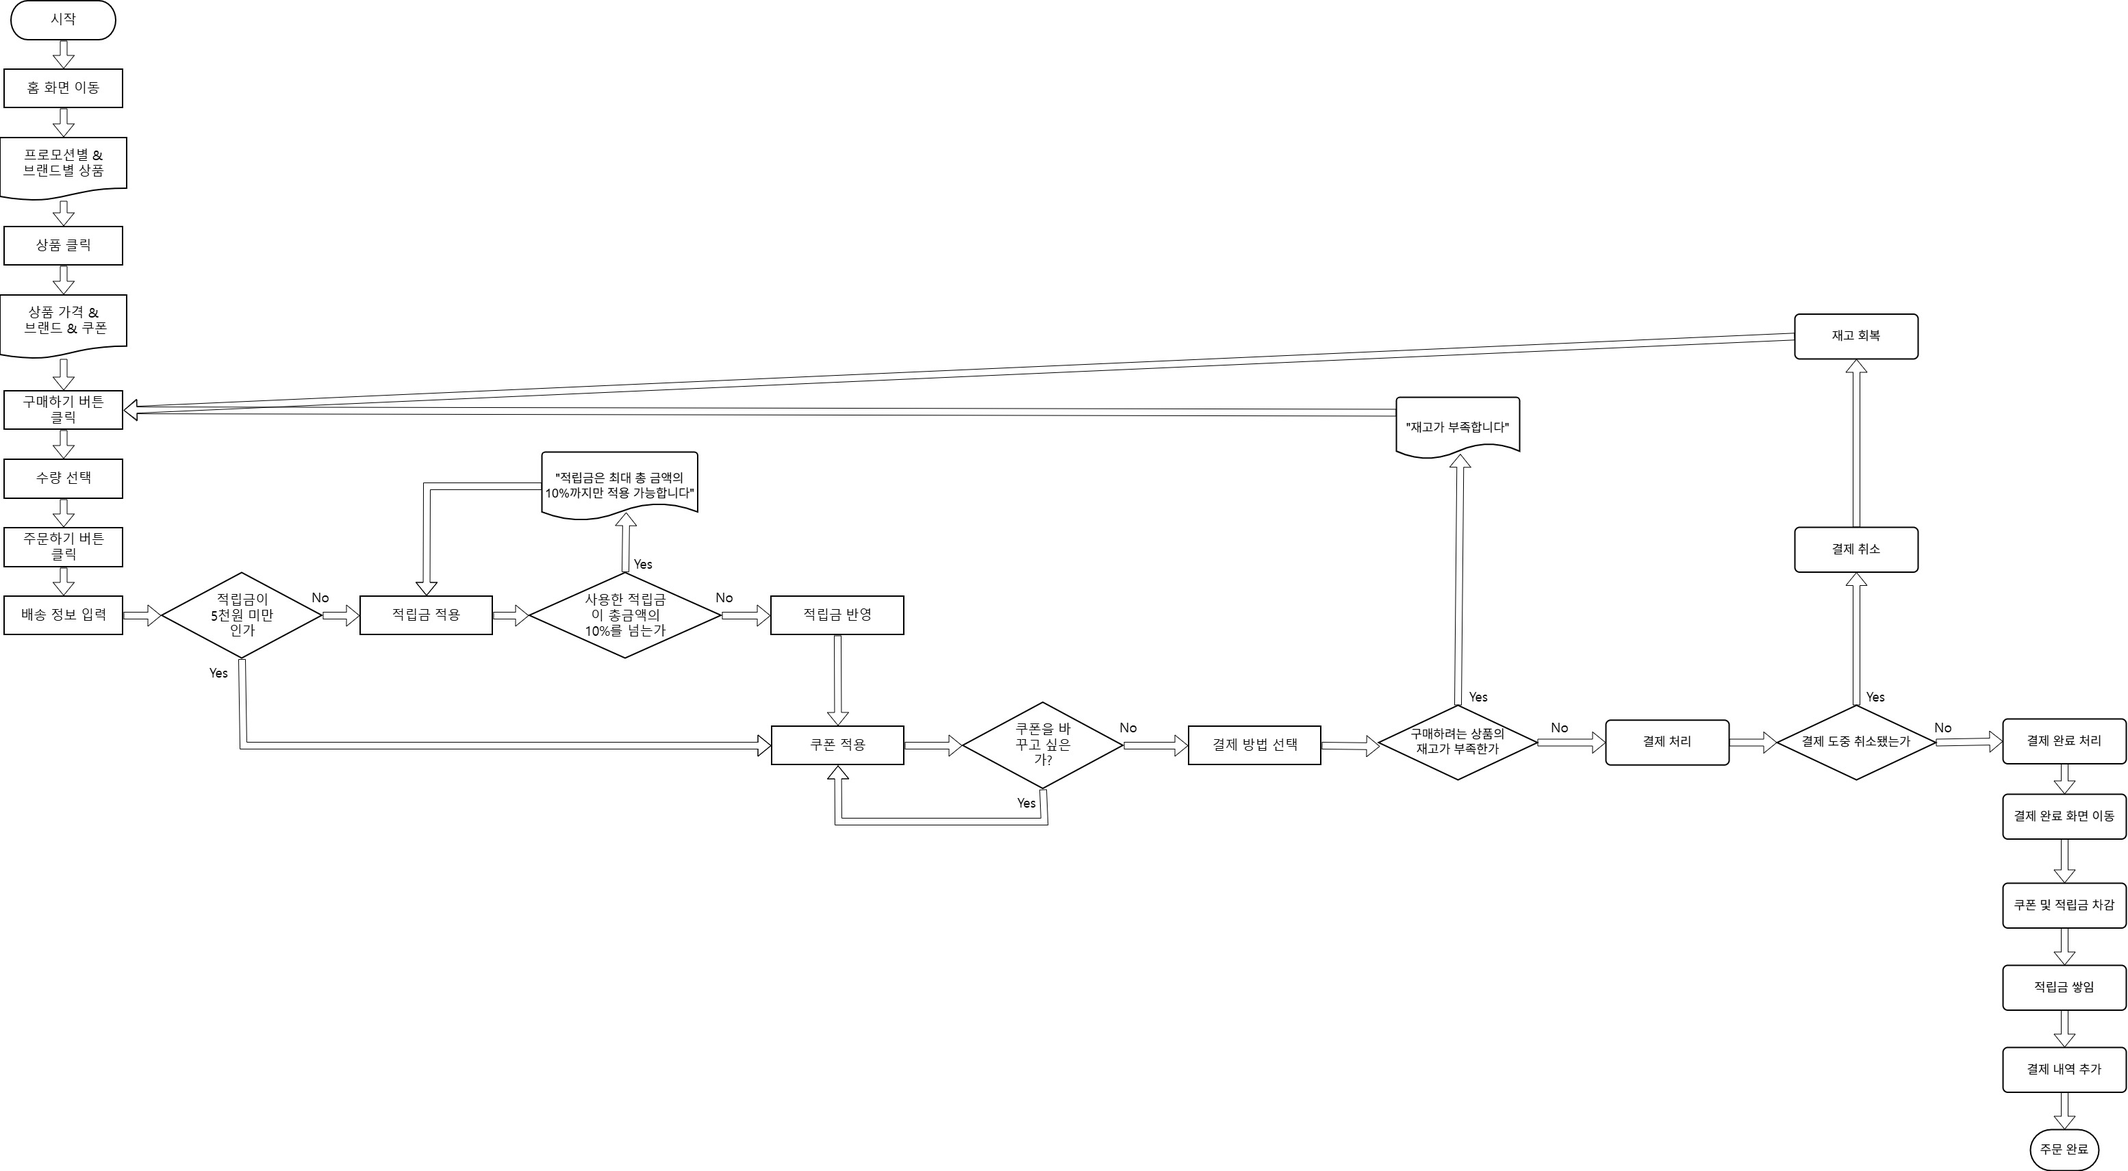
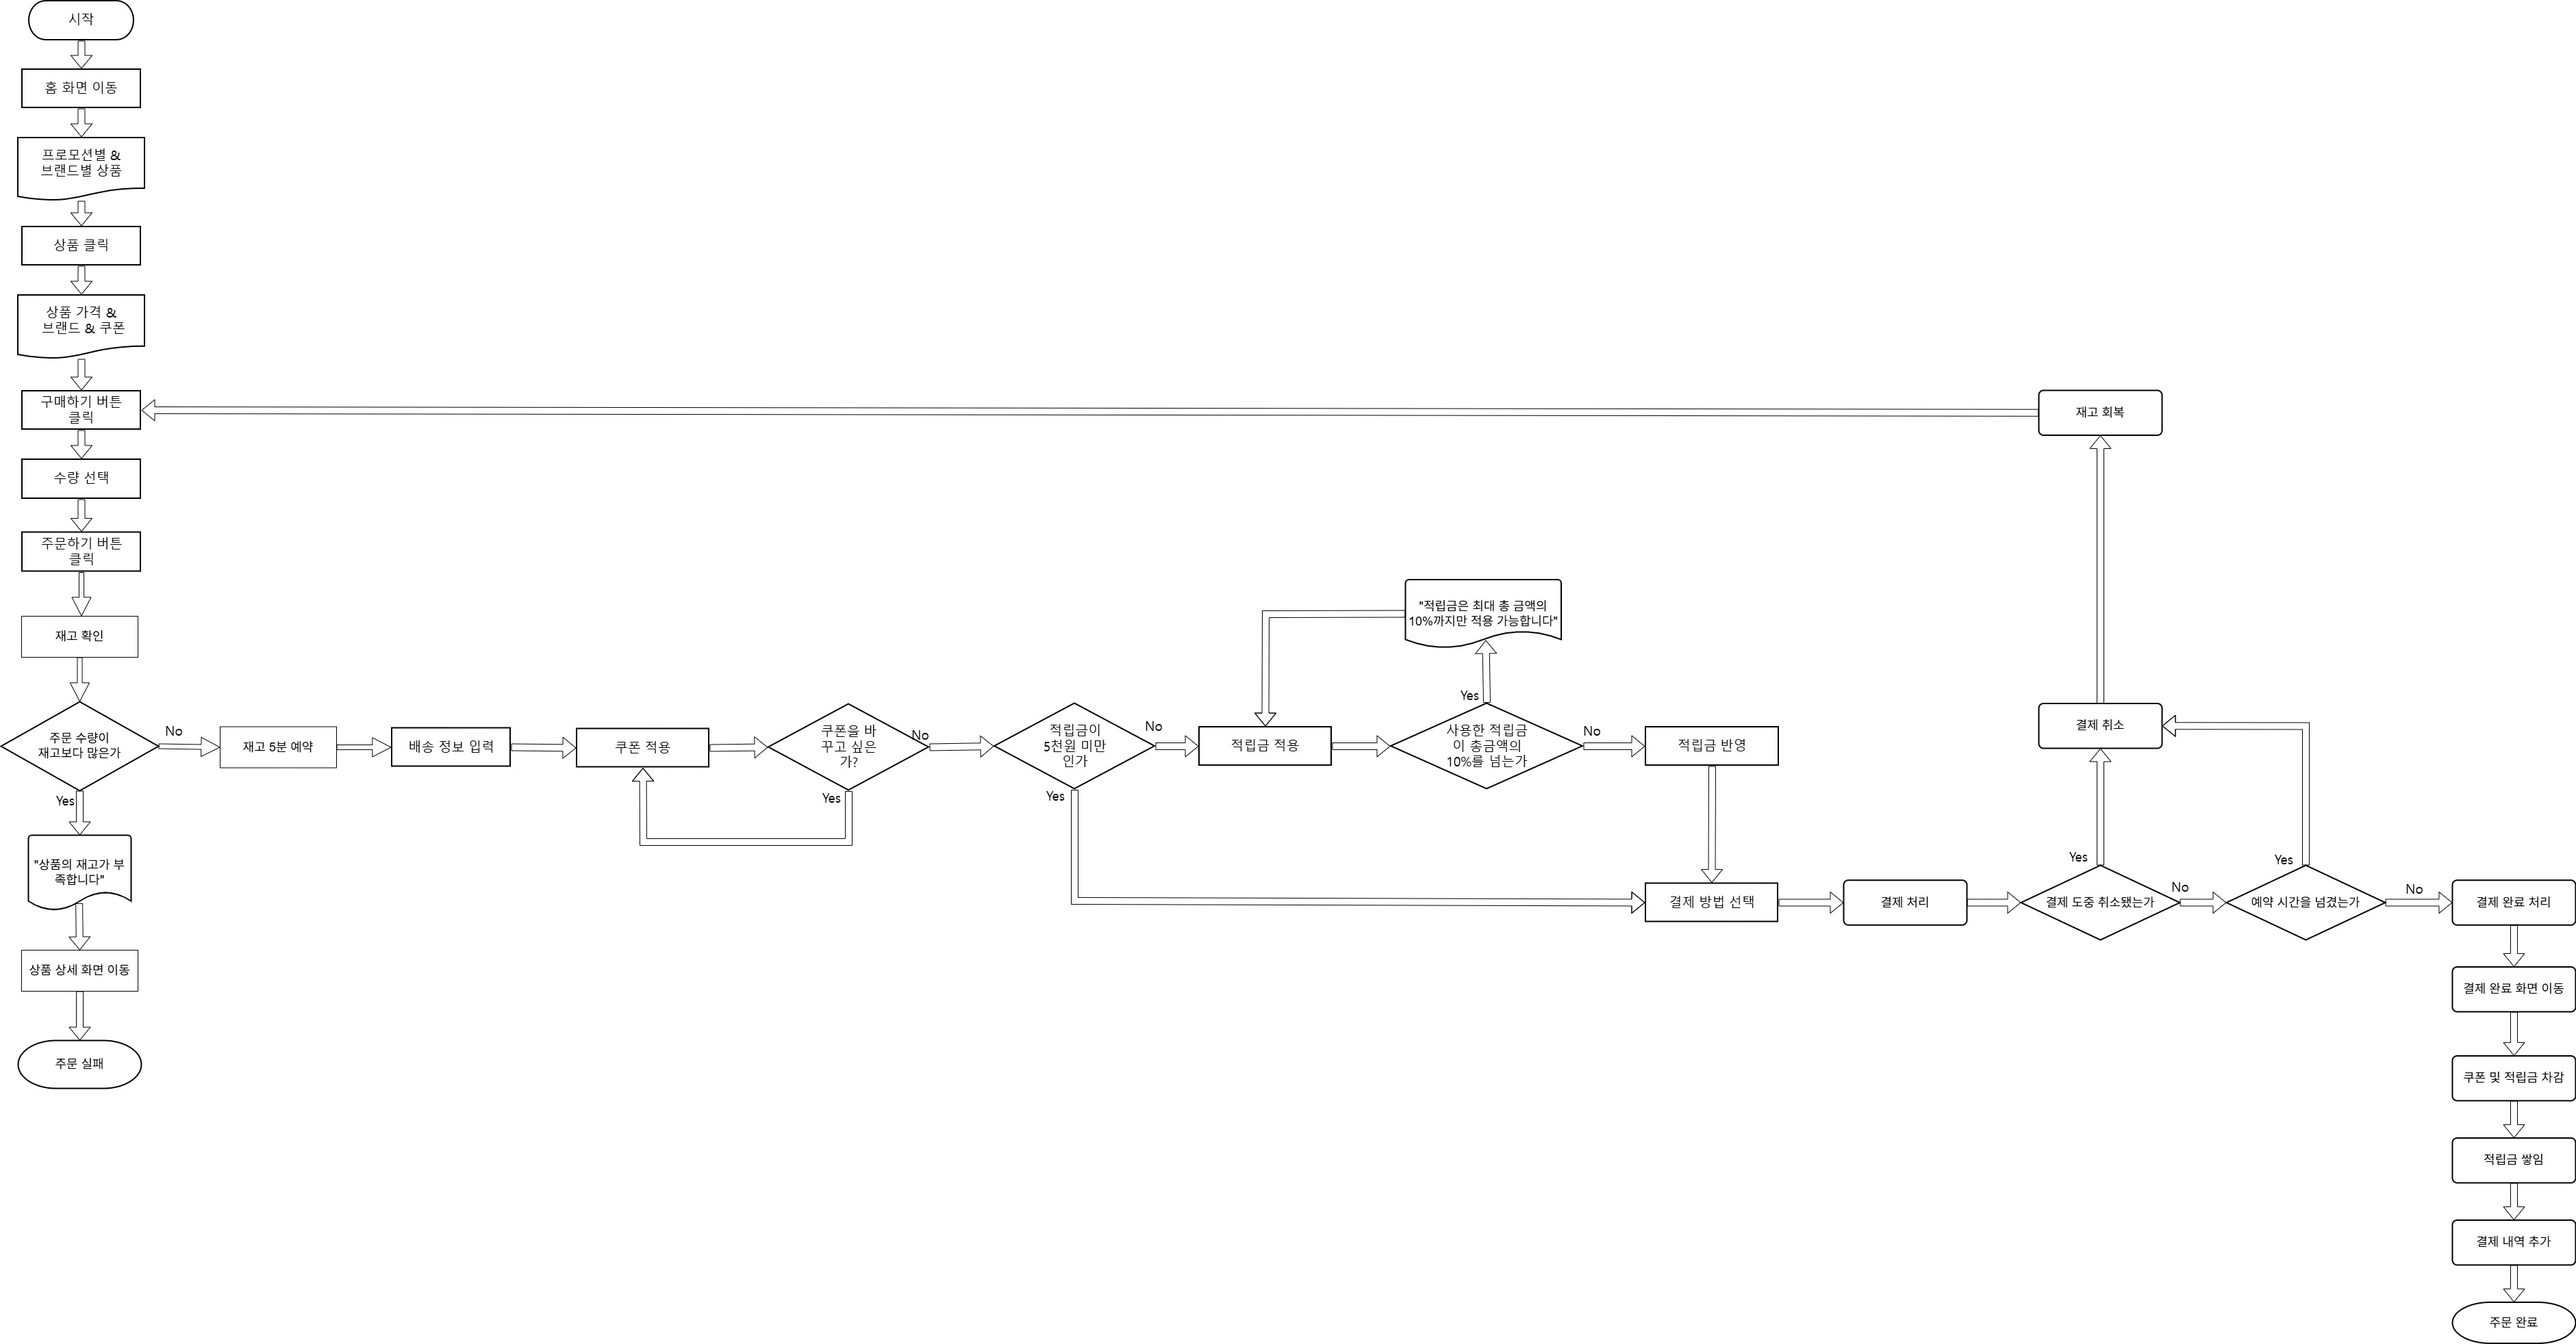
사용자 시나리오, flow chart 수정

diff --git a/README.md b/README.md
@@ -99,10 +99,11 @@
    - 끝난 프로모션은 쿠폰을 다운로드할 수 없다
 2. 브랜드 소개 아래에는 쿠폰을 다운받을 수 있는 버튼이 보인다
    - 만약 이미 다운로드 받은 쿠폰이라면 버튼은 비활성화된다
+   - 쿠폰의 전체 수량이 모두 소진된 경우에는 버튼이 "소진됨" 상태로 표시된다 
 3. 쿠폰을 다운로드 받는다
    - 프로모션 쿠폰의 수량은 한정적어서, 다 소진되면 쿠폰을 못 받을 수 있다
    - 프로모션 쿠폰을 다운받으려 할 때 순간 쿠폰이 소진되었다면 "쿠폰이 소진되었습니다"라는 안내창이 보이며, 쿠폰이 다운로드되지 않는다
-     - 쿠폰 다운로드 버튼은 비활성화된다
+     - 쿠폰 다운로드 버튼은 "소진됨" 상태로 표시된다
 4. 쿠폰이 다운로드되면 "쿠폰을 성공적으로 받았습니다"라는 안내창이 보인다
 5. 다운로드 받은 쿠폰은 마이페이지 버튼을 클릭하여 마이페이지에서 확인한다
 
@@ -117,18 +118,19 @@
 3. 원하는 개수만큼 수량을 선택한다
 4. "주문하기" 버튼을 눌러 주문 화면으로 들어간다
    - "주문하기" 버튼을 누르면 재고를 확인하고, 재고가 충분하면 주문 화면으로 이동하며 해당 수량이 5분간 예약된다
+     - 재고가 충분하지 않다면 "상품의 재고가 부족합니다"는 안내와 함께 상품 상세 화면으로 리다이렉트 된다
    - 주문 화면 진입 후 5분 내 결제가 완료되지 않으면 주문 진행이 취소된다
    - 주문 진행이 취소되면 예약이 해제되고 상품 상세 화면으로 이동하며, 예약된 수량은 다시 구매 가능 상태가 된다
 5. 주문 화면에서 배송 정보를 입력한다
-6. 적립금을 사용하여 총구매 가격을 낮춘다
-   - 적립금은 5천 원부터 사용할 수 있다
-   - 적립금은 총구매 가격의 10%까지만 사용할 수 있다
-   - 10% 이상을 넘기는 금액이면 "적립금은 최대 총 금액의 10%까지만 적용 가능합니다"는 안내가 나온다
-     - 이 안내가 나오면 적립금을 다시 적용해야 한다
-7. 적립금은 최대 적용하기 버튼을 누르면 총구매 가격의 10%까지 할인한 금액이 계산되어 화면에 적용된다
-8. 주문 전체에 적용할 쿠폰 1개를 선택해 적용한다
+6. 주문 전체에 적용할 쿠폰 1개를 선택해 적용한다
    - 프로모션, 브랜드별 쿠폰을 종합하여 최대 1개만 선택할 수 있다
    - 다른 쿠폰을 선택해서 적용할 쿠폰을 바꿀 수 있다
+7. 적립금을 사용하여 총구매 가격을 낮춘다
+   - 적립금은 5천 원부터 사용할 수 있다
+   - 적립금은 쿠폰 적용 후 최종 결제금액의 10%까지만 사용할 수 있다
+   - 10% 이상을 넘기는 금액이면 "적립금은 최대 총 금액의 10%까지만 적용 가능합니다"는 안내가 나온다
+     - 이 안내가 나오면 적립금을 다시 적용해야 한다
+8. 적립금은 최대 적용하기 버튼을 누르면 최종 결제금액의 10%까지 할인한 금액이 계산되어 화면에 적용된다
 9.  결제 방법을 선택하고 '결제하기'를 누르면 결제 화면으로 이동하여 결제를 진행한다
    - 결제 방법에는 카드 결제, 퀵계좌이체 중 하나를 고를 수 있다
 10. 결제를 완료하고 결제 완료 화면으로 넘어간다
@@ -144,18 +146,19 @@
 3. 장바구니에서 원하는 물건을 선택한다
 4. "주문하기" 버튼을 클릭하여 주문 화면으로 들어간다
    - "주문하기" 버튼을 누르면 재고를 확인하고, 재고가 충분하면 주문 화면으로 이동하며 해당 수량이 5분간 예약된다
+     - 재고가 충분하지 않다면 "상품의 재고가 부족합니다"는 안내와 함께 상품 상세 화면으로 리다이렉트 된다
    - 주문 화면 진입 후 5분 내 결제가 완료되지 않으면 주문 진행이 취소된다
-   - 주문 진행이 취소되면 예약이 해제되고 상품 상세 화면으로 이동하며, 예약된 수량은 다시 구매 가능 상태가 된다
+   - 주문 진행이 취소되면 예약이 해제되고 장바구니 화면으로 이동하며, 예약된 수량은 다시 구매 가능 상태가 된다
 5. 주문 화면에서 배송 정보를 입력한다
-6. 적립금을 사용하여 총구매 가격을 낮춘다
-   - 적립금은 5천 원부터 사용할 수 있다
-   - 적립금은 총 구매 가격의 10%까지만 사용할 수 있다
-   - 10% 이상을 넘기는 금액이면 "적립금은 최대 총 금액의 10%까지만 적용 가능합니다"는 안내가 나온다
-     - 이 안내가 나오면 적립금을 다시 적용해야 한다
-7. 적립금은 최대 적용하기 버튼을 누르면 총구매 가격의 10%까지 할인한 금액이 계산되어 화면에 적용된다
-8. 주문 전체에 적용할 쿠폰 1개를 선택해 적용한다
+6. 주문 전체에 적용할 쿠폰 1개를 선택해 적용한다
    - 프로모션, 브랜드별 쿠폰을 종합하여 최대 1개만 선택할 수 있다
    - 다른 쿠폰을 선택해서 적용할 쿠폰을 바꿀 수 있다
+7. 적립금을 사용하여 총구매 가격을 낮춘다
+   - 적립금은 5천 원부터 사용할 수 있다
+   - 적립금은 쿠폰 적용 후 최종 결제금액의 10%까지만 사용할 수 있다
+   - 10% 이상을 넘기는 금액이면 "적립금은 최대 총 금액의 10%까지만 적용 가능합니다"는 안내가 나온다
+     - 이 안내가 나오면 적립금을 다시 적용해야 한다
+8. 적립금은 최대 적용하기 버튼을 누르면 최종 결제금액의 10%까지 할인한 금액이 계산되어 화면에 적용된다
 9.  결제 방법을 선택하고 '결제하기'를 누르면 결제 화면으로 이동하여 결제를 진행한다
    - 결제 방법에는 카드 결제, 퀵계좌이체 중 하나를 고를 수 있다
 10. 결제를 완료하고 결제 완료 화면으로 넘어간다
@@ -176,9 +179,9 @@
 1. 마이 페이지로 이동한다
 2. 마이페이지에서 "주문내역" 버튼을 눌러 주문 내역 화면으로 이동한다
 3. 취소하길 원하는 주문 내역을 "주문취소" 버튼을 클릭하여 주문을 취소한다
+   - 주문 취소는 "주문완료" 상태에서만 가능하다
 4. 해당 주문 내역 상태는 "주문취소"로 변경된 것을 확인한다
    - 해당 결제 금액도 결제했던 계좌로 반환되며, 사용했던 적립금과 쿠폰도 다시 반환된다
-     - 쿠폰이 반환될 시 해당 쿠폰이 이미 1개 있다면 반환 처리되지 않는다
 
 
 ## flow chart
